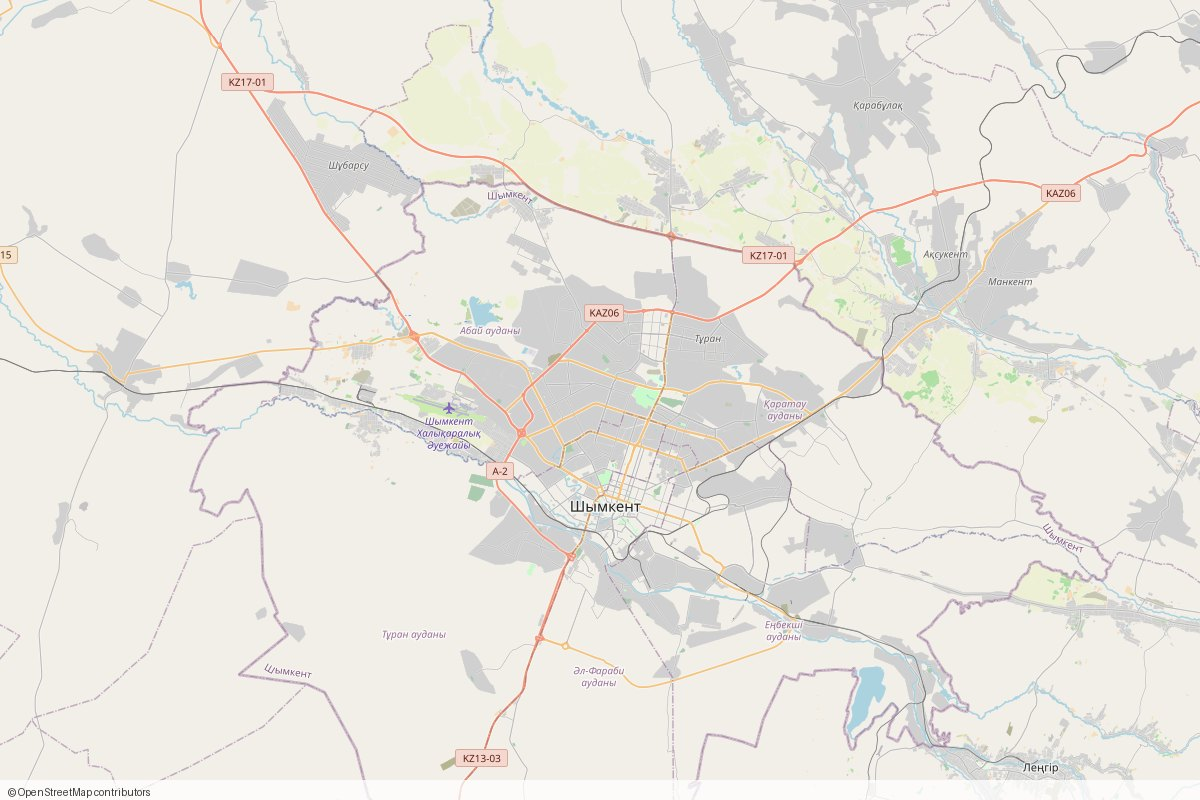
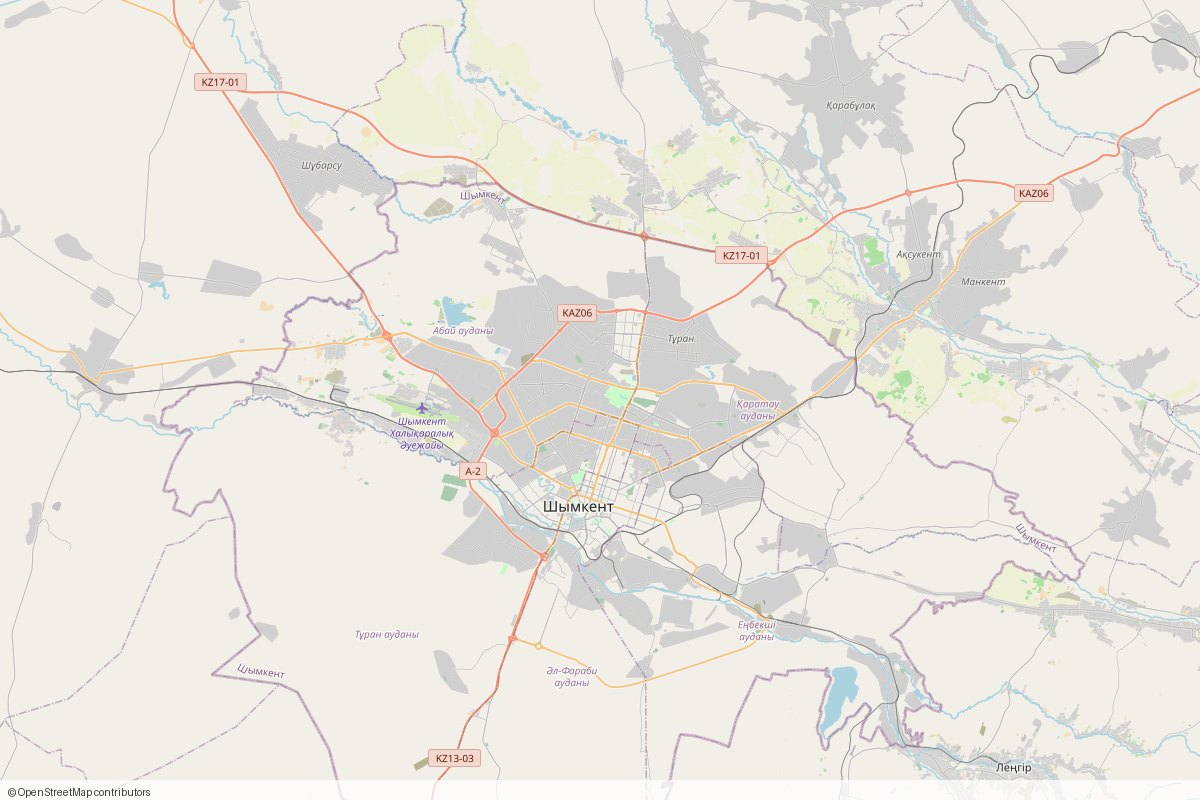
Put АЗС-4 on the map
The client supplied the point, which no map service had. It lands inside
the city by the Karatau district, matching the address. Adding it shifts
the frame, so every marker's position was recomputed.

diff --git a/index.html b/index.html
@@ -52,7 +52,7 @@
     } catch (e) {}
   })();
 </script>
-<script src="assets/js/i18n.js?v=3"></script>
+<script src="assets/js/i18n.js?v=4"></script>
 
 <style>
   html { scroll-behavior: smooth; }
@@ -614,14 +614,17 @@
                Маркеры позиционируются в процентах от размера картинки, поэтому
                изображение должно отображаться целиком (w-full h-auto), без object-cover. -->
           <img src="assets/images/azs-map.jpg" alt="Карта сети АЗС ALMAZ в Шымкенте и Туркестанской области" class="w-full h-auto block" width="1200" height="800" loading="lazy">
-          <button data-station="azs-1" class="marker absolute -translate-x-1/2 -translate-y-1/2 flex flex-col items-center z-10" style="top:71.54%; left:46.85%;">
+          <button data-station="azs-1" class="marker absolute -translate-x-1/2 -translate-y-1/2 flex flex-col items-center z-10" style="top:71.54%; left:44.55%;">
             <span class="w-11 h-11 rounded-full flex items-center justify-center font-black text-xs shadow-xl border-2 bg-navy text-white border-accent" data-i18n="azs-network.9">АЗС-1</span>
           </button>
-          <button data-station="azs-2" class="marker absolute -translate-x-1/2 -translate-y-1/2 flex flex-col items-center z-10" style="top:28.72%; left:53.03%; margin-left:-22px;">
+          <button data-station="azs-2" class="marker absolute -translate-x-1/2 -translate-y-1/2 flex flex-col items-center z-10" style="top:28.72%; left:50.74%; margin-left:-22px;">
             <span class="w-11 h-11 rounded-full flex items-center justify-center font-black text-xs shadow-xl border-2 bg-navy text-white border-accent" data-i18n="azs-network.10">АЗС-2</span>
           </button>
-          <button data-station="azs-3" class="marker absolute -translate-x-1/2 -translate-y-1/2 flex flex-col items-center z-10" style="top:28.43%; left:53.15%; margin-left:22px;">
+          <button data-station="azs-3" class="marker absolute -translate-x-1/2 -translate-y-1/2 flex flex-col items-center z-10" style="top:28.43%; left:50.85%; margin-left:22px;">
             <span class="w-11 h-11 rounded-full flex items-center justify-center font-black text-xs shadow-xl border-2 bg-navy text-white border-accent" data-i18n="azs-network.11">АЗС-3</span>
+          </button>
+          <button data-station="azs-4" class="marker absolute -translate-x-1/2 -translate-y-1/2 flex flex-col items-center z-10" style="top:51.06%; left:55.45%;">
+            <span class="w-11 h-11 rounded-full flex items-center justify-center font-black text-xs shadow-xl border-2 bg-navy text-white border-accent" data-i18n="azs-network.12">АЗС-4</span>
           </button>
           <div class="absolute bottom-3 left-3 bg-navy/90 backdrop-blur p-2.5 rounded-lg border border-slate-800 text-[11px] text-slate-300 max-w-[70%]">
             <span class="font-bold text-white block mb-0.5" data-i18n="azs-network.13">Кликните по маркеру АЗС:</span><span data-i18n="azs-network.14">чтобы увидеть адрес и проложить маршрут</span>

diff --git a/kz/index.html b/kz/index.html
@@ -53,7 +53,7 @@
     } catch (e) {}
   })();
 </script>
-<script src="../assets/js/i18n.js?v=3"></script>
+<script src="../assets/js/i18n.js?v=4"></script>
 
 <style>
   html { scroll-behavior: smooth; }
@@ -615,14 +615,17 @@
                Маркеры позиционируются в процентах от размера картинки, поэтому
                изображение должно отображаться целиком (w-full h-auto), без object-cover. -->
           <img src="../assets/images/azs-map.jpg" alt="Карта сети АЗС ALMAZ в Шымкенте и Туркестанской области" class="w-full h-auto block" width="1200" height="800" loading="lazy">
-          <button data-station="azs-1" class="marker absolute -translate-x-1/2 -translate-y-1/2 flex flex-col items-center z-10" style="top:71.54%; left:46.85%;">
+          <button data-station="azs-1" class="marker absolute -translate-x-1/2 -translate-y-1/2 flex flex-col items-center z-10" style="top:71.54%; left:44.55%;">
             <span class="w-11 h-11 rounded-full flex items-center justify-center font-black text-xs shadow-xl border-2 bg-navy text-white border-accent" data-i18n="azs-network.9">№1</span>
           </button>
-          <button data-station="azs-2" class="marker absolute -translate-x-1/2 -translate-y-1/2 flex flex-col items-center z-10" style="top:28.72%; left:53.03%; margin-left:-22px;">
+          <button data-station="azs-2" class="marker absolute -translate-x-1/2 -translate-y-1/2 flex flex-col items-center z-10" style="top:28.72%; left:50.74%; margin-left:-22px;">
             <span class="w-11 h-11 rounded-full flex items-center justify-center font-black text-xs shadow-xl border-2 bg-navy text-white border-accent" data-i18n="azs-network.10">№2</span>
           </button>
-          <button data-station="azs-3" class="marker absolute -translate-x-1/2 -translate-y-1/2 flex flex-col items-center z-10" style="top:28.43%; left:53.15%; margin-left:22px;">
+          <button data-station="azs-3" class="marker absolute -translate-x-1/2 -translate-y-1/2 flex flex-col items-center z-10" style="top:28.43%; left:50.85%; margin-left:22px;">
             <span class="w-11 h-11 rounded-full flex items-center justify-center font-black text-xs shadow-xl border-2 bg-navy text-white border-accent" data-i18n="azs-network.11">№3</span>
+          </button>
+          <button data-station="azs-4" class="marker absolute -translate-x-1/2 -translate-y-1/2 flex flex-col items-center z-10" style="top:51.06%; left:55.45%;">
+            <span class="w-11 h-11 rounded-full flex items-center justify-center font-black text-xs shadow-xl border-2 bg-navy text-white border-accent" data-i18n="azs-network.12">№4</span>
           </button>
           <div class="absolute bottom-3 left-3 bg-navy/90 backdrop-blur p-2.5 rounded-lg border border-slate-800 text-[11px] text-slate-300 max-w-[70%]">
             <span class="font-bold text-white block mb-0.5" data-i18n="azs-network.13">АЖҚС маркерін басыңыз:</span><span data-i18n="azs-network.14">мекенжайын көру және маршрут салу үшін</span>

diff --git a/zh/index.html b/zh/index.html
@@ -53,7 +53,7 @@
     } catch (e) {}
   })();
 </script>
-<script src="../assets/js/i18n.js?v=3"></script>
+<script src="../assets/js/i18n.js?v=4"></script>
 
 <style>
   html { scroll-behavior: smooth; }
@@ -615,14 +615,17 @@
                Маркеры позиционируются в процентах от размера картинки, поэтому
                изображение должно отображаться целиком (w-full h-auto), без object-cover. -->
           <img src="../assets/images/azs-map.jpg" alt="Карта сети АЗС ALMAZ в Шымкенте и Туркестанской области" class="w-full h-auto block" width="1200" height="800" loading="lazy">
-          <button data-station="azs-1" class="marker absolute -translate-x-1/2 -translate-y-1/2 flex flex-col items-center z-10" style="top:71.54%; left:46.85%;">
+          <button data-station="azs-1" class="marker absolute -translate-x-1/2 -translate-y-1/2 flex flex-col items-center z-10" style="top:71.54%; left:44.55%;">
             <span class="w-11 h-11 rounded-full flex items-center justify-center font-black text-xs shadow-xl border-2 bg-navy text-white border-accent" data-i18n="azs-network.9">1号</span>
           </button>
-          <button data-station="azs-2" class="marker absolute -translate-x-1/2 -translate-y-1/2 flex flex-col items-center z-10" style="top:28.72%; left:53.03%; margin-left:-22px;">
+          <button data-station="azs-2" class="marker absolute -translate-x-1/2 -translate-y-1/2 flex flex-col items-center z-10" style="top:28.72%; left:50.74%; margin-left:-22px;">
             <span class="w-11 h-11 rounded-full flex items-center justify-center font-black text-xs shadow-xl border-2 bg-navy text-white border-accent" data-i18n="azs-network.10">2号</span>
           </button>
-          <button data-station="azs-3" class="marker absolute -translate-x-1/2 -translate-y-1/2 flex flex-col items-center z-10" style="top:28.43%; left:53.15%; margin-left:22px;">
+          <button data-station="azs-3" class="marker absolute -translate-x-1/2 -translate-y-1/2 flex flex-col items-center z-10" style="top:28.43%; left:50.85%; margin-left:22px;">
             <span class="w-11 h-11 rounded-full flex items-center justify-center font-black text-xs shadow-xl border-2 bg-navy text-white border-accent" data-i18n="azs-network.11">3号</span>
+          </button>
+          <button data-station="azs-4" class="marker absolute -translate-x-1/2 -translate-y-1/2 flex flex-col items-center z-10" style="top:51.06%; left:55.45%;">
+            <span class="w-11 h-11 rounded-full flex items-center justify-center font-black text-xs shadow-xl border-2 bg-navy text-white border-accent" data-i18n="azs-network.12">4号</span>
           </button>
           <div class="absolute bottom-3 left-3 bg-navy/90 backdrop-blur p-2.5 rounded-lg border border-slate-800 text-[11px] text-slate-300 max-w-[70%]">
             <span class="font-bold text-white block mb-0.5" data-i18n="azs-network.13">点击加油站标记：</span><span data-i18n="azs-network.14">即可查看地址并规划路线</span>

diff --git a/en/index.html b/en/index.html
@@ -53,7 +53,7 @@
     } catch (e) {}
   })();
 </script>
-<script src="../assets/js/i18n.js?v=3"></script>
+<script src="../assets/js/i18n.js?v=4"></script>
 
 <style>
   html { scroll-behavior: smooth; }
@@ -615,14 +615,17 @@
                Маркеры позиционируются в процентах от размера картинки, поэтому
                изображение должно отображаться целиком (w-full h-auto), без object-cover. -->
           <img src="../assets/images/azs-map.jpg" alt="Карта сети АЗС ALMAZ в Шымкенте и Туркестанской области" class="w-full h-auto block" width="1200" height="800" loading="lazy">
-          <button data-station="azs-1" class="marker absolute -translate-x-1/2 -translate-y-1/2 flex flex-col items-center z-10" style="top:71.54%; left:46.85%;">
+          <button data-station="azs-1" class="marker absolute -translate-x-1/2 -translate-y-1/2 flex flex-col items-center z-10" style="top:71.54%; left:44.55%;">
             <span class="w-11 h-11 rounded-full flex items-center justify-center font-black text-xs shadow-xl border-2 bg-navy text-white border-accent" data-i18n="azs-network.9">1</span>
           </button>
-          <button data-station="azs-2" class="marker absolute -translate-x-1/2 -translate-y-1/2 flex flex-col items-center z-10" style="top:28.72%; left:53.03%; margin-left:-22px;">
+          <button data-station="azs-2" class="marker absolute -translate-x-1/2 -translate-y-1/2 flex flex-col items-center z-10" style="top:28.72%; left:50.74%; margin-left:-22px;">
             <span class="w-11 h-11 rounded-full flex items-center justify-center font-black text-xs shadow-xl border-2 bg-navy text-white border-accent" data-i18n="azs-network.10">2</span>
           </button>
-          <button data-station="azs-3" class="marker absolute -translate-x-1/2 -translate-y-1/2 flex flex-col items-center z-10" style="top:28.43%; left:53.15%; margin-left:22px;">
+          <button data-station="azs-3" class="marker absolute -translate-x-1/2 -translate-y-1/2 flex flex-col items-center z-10" style="top:28.43%; left:50.85%; margin-left:22px;">
             <span class="w-11 h-11 rounded-full flex items-center justify-center font-black text-xs shadow-xl border-2 bg-navy text-white border-accent" data-i18n="azs-network.11">3</span>
+          </button>
+          <button data-station="azs-4" class="marker absolute -translate-x-1/2 -translate-y-1/2 flex flex-col items-center z-10" style="top:51.06%; left:55.45%;">
+            <span class="w-11 h-11 rounded-full flex items-center justify-center font-black text-xs shadow-xl border-2 bg-navy text-white border-accent" data-i18n="azs-network.12">4</span>
           </button>
           <div class="absolute bottom-3 left-3 bg-navy/90 backdrop-blur p-2.5 rounded-lg border border-slate-800 text-[11px] text-slate-300 max-w-[70%]">
             <span class="font-bold text-white block mb-0.5" data-i18n="azs-network.13">Click a station marker:</span><span data-i18n="azs-network.14">to see the address and get directions</span>

diff --git a/assets/i18n/kk.js b/assets/i18n/kk.js
@@ -47,6 +47,7 @@ window.AZK_I18N.kk = {
   "azs-network.1": "Бөлшек сауда және қызмет көрсету",
   "azs-network.10": "№2",
   "azs-network.11": "№3",
+  "azs-network.12": "№4",
   "azs-network.13": "АЖҚС маркерін басыңыз:",
   "azs-network.14": "мекенжайын көру және маршрут салу үшін",
   "azs-network.15": "Картада таңдалды",

diff --git a/assets/i18n/zh.js b/assets/i18n/zh.js
@@ -47,6 +47,7 @@ window.AZK_I18N.zh = {
   "azs-network.1": "零售与服务",
   "azs-network.10": "2号",
   "azs-network.11": "3号",
+  "azs-network.12": "4号",
   "azs-network.13": "点击加油站标记：",
   "azs-network.14": "即可查看地址并规划路线",
   "azs-network.15": "已在地图上选中",

diff --git a/assets/i18n/en.js b/assets/i18n/en.js
@@ -47,6 +47,7 @@ window.AZK_I18N.en = {
   "azs-network.1": "Retail and service",
   "azs-network.10": "2",
   "azs-network.11": "3",
+  "azs-network.12": "4",
   "azs-network.13": "Click a station marker:",
   "azs-network.14": "to see the address and get directions",
   "azs-network.15": "Selected on the map",

diff --git a/tools/make-map.py b/tools/make-map.py
@@ -35,7 +35,8 @@ STATIONS = [
     ('azs-1', 'АЗС-1', 42.281224, 69.558025, '2ГИС',   (0, 0)),
     ('azs-2', 'АЗС-2', 42.455037, 69.608970, '2ГИС',   (0, 0)),
     ('azs-3', 'АЗС-3', 42.456213, 69.609947, '2ГИС',   (0, 0)),
-    # АЗС-4 (Каратауский р-н, кв-л 223) нет ни в 2ГИС, ни на Яндексе — ждём точку от клиента.
+    # АЗС-4 нет ни в 2ГИС, ни на Яндексе (станция новая) — точку дал клиент 16.10.
+    ('azs-4', 'АЗС-4', 42.3644, 69.6478, 'от клиента', (0, 0)),
 ]
 
 def deg2num(lat, lon, z):

diff --git a/PROGRESS.md b/PROGRESS.md
@@ -108,11 +108,13 @@
 | АЗС-1 | 42.281224, 69.558025 | 2ГИС; легла ровно на трассу А-2 юго-западнее города в районе Тұран — сходится с адресом |
 | АЗС-2 | 42.455037, 69.608970 | 2ГИС |
 | АЗС-3 | 42.456213, 69.609947 | 2ГИС |
-| АЗС-4 | **нет** | отсутствует и в 2ГИС, и на Яндексе — станция самая новая |
+| АЗС-4 | 42.3644, 69.6478 | координату дал клиент 16.10 — станции нет ни в 2ГИС, ни на Яндексе; точка легла в черте города у Каратауского района, сходится с адресом |
 
 **АЗС-2 и АЗС-3 стоят в 150 м друг от друга** — это подтверждает слова клиента, что они напротив через объездную. Но на масштабе, где видна АЗС-1, 150 м = 3 пикселя, и кружки сливаются. **Разнос сделан в вёрстке через `margin-left: ±22px`, а не в генераторе**: сдвиг в пикселях картинки масштабируется вместе с ней и на мобильной ширине схлопывается. В `make-map.py` проценты остаются истинными.
 
-**Открыто:** на карте 3 маркера из 4 — нужна одна координата АЗС-4 (Каратауский р-н, квартал 223, здание 8). Её карточка в списке есть, маршрут по адресу работает, маркера нет. Также стоит подтвердить, кто из пары на объездной АЗС-2, а кто АЗС-3 — развёл по границе города.
+**16.10: все 4 маркера на карте**, клик по каждому работает, проверено на боевом сайте.
+
+**Открыто:** подтвердить, кто из пары на объездной АЗС-2, а кто АЗС-3 — развёл их по границе города (АЗС-2 — Шымкент, АЗС-3 — Туркестанская обл.), это предположение, а не факт от клиента.
 
 **Заголовки безопасности не применяются.** `X-Content-Type-Options`, `X-Frame-Options`, `Referrer-Policy` из `.htaccess` в ответе не появляются — `mod_headers`, похоже, не подключён. Сроки кэша и `ErrorDocument` при этом работают. Если нужны — добавлять через Plesk → Apache & nginx Settings → Additional nginx directives.
 
